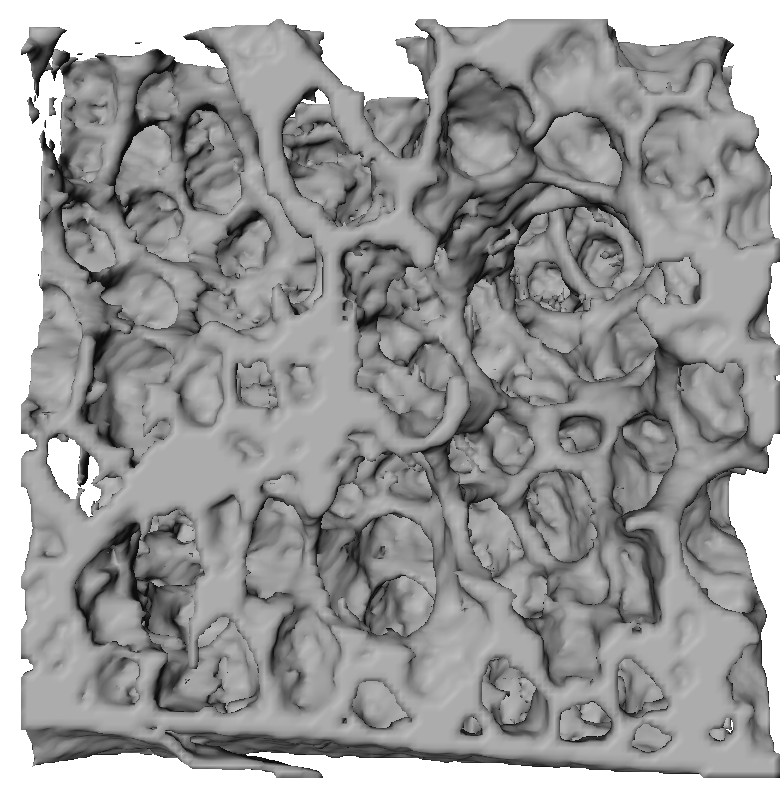
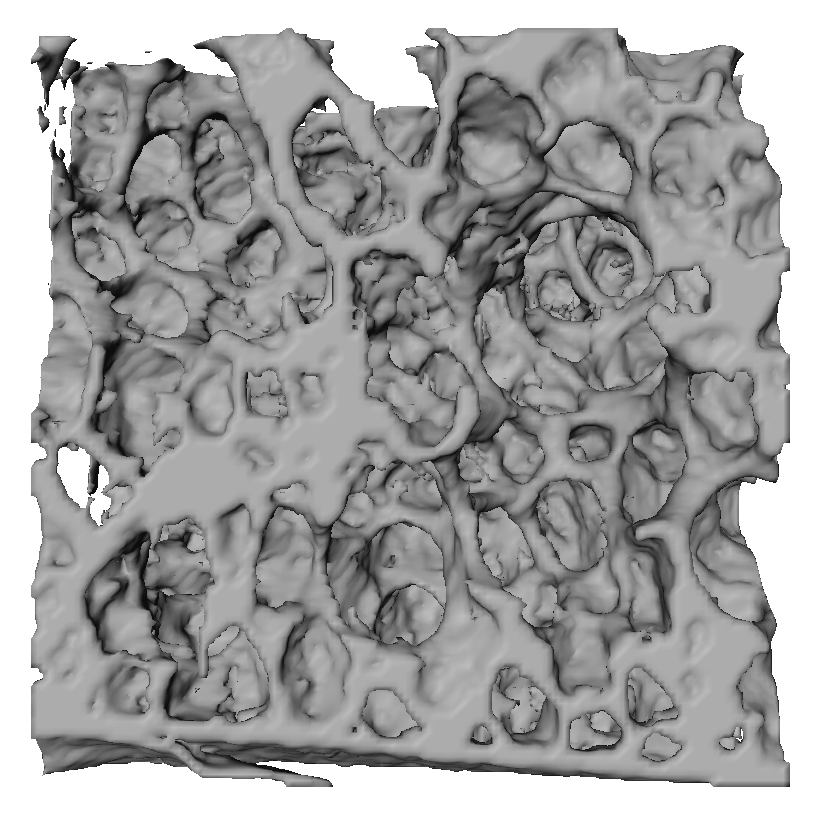
- changed images in figure 7 (cropped to correct size, scalebars updated) - shifted description of panel (b) in figure 4 - quality-plot is now scaled from 16-116% (corresponding to table) instead of 20-100% as per MATLAB - figure 3 has correct markers for ring-scans (r_{1} instead of r1) - worked on
git-svn-id: http://code.ana.unibe.ch/svn/WideFieldScanPaper@179 1e09dd5d-36e2-4d60-b258-626281e6a704

diff --git a/wfs-materials-and-methods.tex b/wfs-materials-and-methods.tex
@@ -59,7 +59,7 @@ A detailed description of the workflow at TOMCAT and the steps necessary to comp
 \fi%
 .
 
-\subsubsection{Covering a wide field of view perpendicular to the rotation axis}%
+\subsubsection{Covering a wide lateral field of view}%
 For parallel beam geometry, tomographic images are obtained at equidistant angles over a sample rotation of \SI{180}{\degree} as shown in figure~\ref{fig:scanning-possibilities}(a). After reconstruction the width of the image corresponds to the field of view of the camera.
 
 Samples which are twice as large as the field of view can be imaged using scanning protocols based on a \SI{360}{\degree} off-centre sample rotation as shown in figure~\ref{fig:scanning-possibilities}(b). Images recorded between \SI{180}{\degree} and \SI{360}{\degree} have to be flipped after acquisition and the projection images obtained at position $I_{x}$ and $I_{x+\SI{180}{\degree}}$ are stitched together to projection images covering two times the field of view of the camera.
@@ -82,18 +82,16 @@ Samples which are twice as large as the field of view can be imaged using scanni
 	\end{figure}
 \fi
 
-If we would like to achieve tomographic scans covering a size wider than two field of views, we have to combine three or more \SI{180}{\degree} scans taken at slightly overlapping positions as shown figure~\ref{fig:scanning-possibilities}(c).
-
-The projection images of each subscan have to overlap by 20--100 pixels to allow an optimal stitching of the multiple projections of each rotational angle into one projection. Using the mean squared difference between adjacent subscan images~\cite{Hintermueller2009}, such a cutline has been calculated for all the adjacent subscans of every scanned protocol and used to merge the single projections into projections covering the full field of view.
+If we would like to achieve tomographic scans covering a size wider than two field of views, we have to combine three or more \SI{180}{\degree} scans taken at slightly overlapping positions as shown figure~\ref{fig:scanning-possibilities}(c). The projection images of each subscan overlap each other slightly to allow an optimal stitching of the multiple projections of each rotational angle into one projection. Using the mean squared difference between adjacent subscan images~\cite{Hintermueller2009}, such a cutline has been calculated for the adjacent subscans and used to merge the single projections into projections covering the full field of view.
 
 \subsection{Generation of multiple scanning protocols}%
-The discussed scanning protocol for covering a wide field of view with three subscans is based on the assumption that a sufficient resolution and contrast can be achieved in the tomographic data sets when the sampling theorem is fulfilled for each of the three subscans individually. This results in a set of scans with $P_{i}$ projection images. A simple example with $P_{1}=4$ and $P_{2}=P_{3}=8$ is shown in figure~\ref{fig:projections}(a).
+The discussed scanning protocol for covering a wide field of view with three subscans is based on the assumption that a sufficient resolution and contrast can be achieved in the tomographic data set if the sampling theorem is individually fulfilled for each of the subscans. This results in a set of $i$ subscans with $P_{i}$ projection images. A simple example with $P_{1}=4$ and $P_{2}=P_{3}=8$ is shown in figure~\ref{fig:projections}(a).
 
 To be able to reconstruct the sample, we need to stitch the individual sets of projections to projections spanning the desired field of view. Since each scan has a different number of projections $P_{i}$, a stitching algorithm has to interpolate projections from adjacent projections (as shown in figure~\ref{fig:projections}(b)). Alternatively, the same number of projections has to be acquired for all subscans, leading to oversampling for the central scanning position.
 
 \ifiucr
 	\begin{figure}%
-		\caption{Setup with three \SI{180}{\degree} scans; one central (green) and two lateral (red and blue, respectively). In this drawing, we chose four projections for the central and eight projections for each of the lateral scans. The colors of the three positions correspond to the colors shown in figure~\ref{fig:scanning-possibilities}(c). Panel a): scanned projections, panel b): scanned projections and additional interpolated projections (dashed) needed to correctly merge all projections.}%
+		\caption{Setup with three \SI{180}{\degree} scans; one central (green) and two lateral (red and blue, respectively). In this drawing, we chose four projections for the central and eight projections for each of the lateral scans. The colors of the three positions correspond to the colors shown in figure~\ref{fig:scanning-possibilities}(c). Panel a): scanned projections, panel b): scanned projections and additional interpolated projections (dashed) needed to merge all projections.}%
 		\input{tikz-images/ProjectionSetup}%
 		\input{tikz-images/ProjectionSetupInterpolate}%
 		\label{fig:projections}%
@@ -101,28 +99,22 @@ To be able to reconstruct the sample, we need to stitch the individual sets of p
 \else
 	\begin{figure*}[htp]
 		\centering
-		\subfloat[]{%
-			\input{tikz-images/ProjectionSetup}%
-			\label{subfig:ProjectionSetup}%
-			}%
-		\subfloat[]{%
-			\input{tikz-images/ProjectionSetupInterpolate}%
-			\label{subfig:ProjectionSetupInterpolate}%
-			}%
-	%	\caption[Setup with one central and two lateral scans]
-		\caption{Setup with one central (green) and two lateral scans (red and blue, respectively). For demonstration purposes, the central scan has four projections and the lateral scans have eight projections each (all acquired over \SI{180}{\degree}). The colors of the three positions correspond to the colors shown in figure~\ref{subfig:scanning-possibilities}. \subref{subfig:ProjectionSetup}: scanned projections, \subref{subfig:ProjectionSetupInterpolate}: scanned projections and additional interpolated projections (dashed) needed to correctly merge all projections.}
+		\input{tikz-images/ProjectionSetup}%
+		\input{tikz-images/ProjectionSetupInterpolate}%
+		\caption{Setup with three \SI{180}{\degree} scans; one central (green) and two lateral (red and blue, respectively). In this drawing, we chose four projections for the central and eight projections for each of the lateral scans. The colors of the three positions correspond to the colors shown in figure~\ref{fig:scanning-possibilities}(c). Panel a): scanned projections, panel b): scanned projections and additional interpolated projections (dashed) needed to merge all projections.}%
 		\label{fig:projections}
 	\end{figure*}
 \fi
 
-\subsubsection{Reduction of the acquisition time}\label{subsubsec:reduction-of-acquisition-time}%
+\subsubsection{Reduction of acquisition time}\label{subsubsec:reduction-of-acquisition-time}%
 Since the total acquisition time per sample linearly scales with the total amount of projections of the three subscans, we tend to avoid oversampling to reduce the total amount of beam time used for one sample. Our goal was to find a good compromise between scanning and processing time and image quality. In order to reduce the time required for scanning one sample, acquisition protocols with varying amount of projections for each of the three subscans have been designed.
 
-To simplify the interpolation and merging of the projections from each subscan, we selected protocols where the amount of projections from the inner ($P_{inner}$) to the outer subscans ($P_{outer}$) is always a multiple of two: $\frac{P_{outer}}{P_{inner}} \bmod 2 = 0$. In the simple case shown in figure~\ref{fig:projections}, we would acquire 4 projections for the central and 8 projections for each of the lateral scans, thus avoiding oversampling the central part of the sample. To be able to merge the projection images, we interpolate 4 projections (dashed) in between the acquired projections (green) prior to stitching. If the amount of projections would not be a multiple of two, stitching the projections of the inner scan with the projections from the outer ones would introduce additional processing steps to interpolate the required intermediate projections.
+To simplify the interpolation and merging of the projections from each subscan, we selected protocols where the fraction of the amount of projections of the inner ($P_{inner}$) to the outer subscans ($P_{outer}$) is always a multiple of two%: $\frac{P_{outer}}{P_{inner}} \bmod 2 = 0$
+. In the simple case shown in figure~\ref{fig:projections}, we would acquire 4 projections for the central and 8 projections for each of the lateral scans, thus avoiding oversampling the central part of the sample. To be able to merge the projection images, we need to interpolate 4 projections (dashed) prior to stitching. If the amount of projections acquired for the ring scans would not be a multiple of two of the amount of projections of the central scan, stitching of the projections would introduce additional processing steps to interpolate the required intermediate projections.
 
-To be able to further reduce the total scanning time, we developed different scanning protocols, which all relate to a gold standard protocol, which per definition would cover the desired field of view while fulfilling the sampling theorem in all parts of the field of view, as shown in figure~\ref{fig:SubScan-Setup}(a). For this example we would like to achieve a field of view of 3072 pixels. The dark gray circle shown in aforementioned figure is the field of view that can be fully covered, the rest of the slice (in light grey) would be either missing or show artifacts arising from partial volume effects, depending on the chosen reconstruction algorithm. Since the available detector has a size of 1024$\times$1024 pixels, we can cover the same field of view with nine independent scans. This would require nine independent reconstructions and stitching of those nine tomographic datasets into one dataset covering the full field of view. But we can also cover the chosen field of view using a detector of the size of 3072$\times$1024 pixels in one scan. Using scanning protocol from which we can obtain merged projections, we can cover the desired field of view using a much smaller detector. Figure~\ref{fig:SubScan-Setup}(b) shows how such a field of view can be covered with a wide-field scan composed of one central and two half ring-scans.
+To be able to further reduce the total scanning time, we developed different scanning protocols related to a gold standard protocol, which per definition would cover the desired field of view while fulfilling the sampling theorem in all parts of the field of view, as shown in figure~\ref{fig:SubScan-Setup}(a). For this example we would like to achieve a field of view of 3072 pixels. The dark gray circle shown in aforementioned figure is the field of view that can be fully covered, the rest of the slice (in light grey) would be either missing or show artifacts, depending on the chosen reconstruction algorithm. With a detector of the size of 1024$\times$1024 pixels, we could cover this field of view with nine independent scans. This would require nine independent reconstructions and stitching of those nine tomographic datasets into one dataset covering the full field of view. But we could also cover the chosen field of view using a detector of the size of 3072$\times$1024 pixels in one scan. Using a scanning protocol with three subscans from which we obtain merged projections, we can cover the desired field of view using a much smaller detector. Figure~\ref{fig:SubScan-Setup}(b) shows how the desired field of view of 3072 pixels can be covered with a wide-field scan composed of one central and two half ring-scans. A further increase in the field of view can be obtained by simple iteration. Figures~\ref{fig:SubScan-Setup}(c)--(f) show such a setup for a five- or seven-fold increase.
 
-To fully satisfy the sampling theorem for a scan with the detector width $D$ we need to acquire an amount of projections $P=D\frac{\pi}{2}$, which leads to the acquisition of totally 14476 projections for the setup shown in figure~\ref{fig:SubScan-Setup}(b) ($P=3(3072\frac{\pi}{2})$ projections if the single projections from each subscan are merged into one projection covering the field of view). A further increase in the field of view can be obtained by simple iteration. Figures~\ref{fig:SubScan-Setup}(c)--(f) show such a setup for a five- or seven-fold increase.
+%To fully satisfy the sampling theorem for a scan with the detector width $D$ we need to acquire an amount of projections $P=D\frac{\pi}{2}$, which leads to the acquisition of totally 14476 projections for the setup shown in figure~\ref{fig:SubScan-Setup}(b) ($P=3(3072\frac{\pi}{2})$ projections if the single projections from each subscan are merged into one projection covering the field of view). 
 
 \ifiucr
 	%\onecolumn
@@ -130,11 +122,11 @@ To fully satisfy the sampling theorem for a scan with the detector width $D$ we 
 		\centering%
 		\caption{Setup for different field of views. %
 		(a) Desired field of view of 3072 pixel diameter. %
-		(b) Gold standard scanning protocol for covering the desired field of view of panel (a) with merged projections from one central and two half ring scans. %
+		(b) Gold standard scanning protocol for covering the desired field of view of panel (a) with merged projections from one central and two half ring scans ($r_{1}$ and $r_{2}$). %
 		(c) Desired field of view of 5120 pixel diameter. %
-		(d) Gold standard scanning protocol for covering the desired field of view of panel (c) with merged projections from one central and four half ring scans. %
+		(d) Gold standard scanning protocol for covering the desired field of view of panel (c) with merged projections from one central and four half ring scans ($r_{1}$--$r_{4}$). %
 		(e) Desired field of view of 7168 pixel diameter. %
-		(f) Gold standard scanning protocol for covering the desired field of view of panel (e) with merged projections from one central and six half ring scans. %
+		(f) Gold standard scanning protocol for covering the desired field of view of panel (e) with merged projections from one central and six half ring scans ($r_{1}$--$r_{6}$).%
 		}%
 		\input{tikz-images/SubScanSetup/SetupFor-3-5-7-SubScans}
 		\label{fig:SubScan-Setup}%
@@ -144,7 +136,14 @@ To fully satisfy the sampling theorem for a scan with the detector width $D$ we 
 	\begin{figure*}[htp]
 		\centering%
 		\input{tikz-images/SubScanSetup/SetupFor-3-5-7-SubScans}
-		\caption{Setup; desired field of view and two variants of covering the desired field of view with 9 independent small scans or 3 subscans.}%
+		\caption{Setup for different field of views. %
+		(a) Desired field of view of 3072 pixel diameter. %
+		(b) Gold standard scanning protocol for covering the desired field of view of panel (a) with merged projections from one central and two half ring scans ($r_{1}$ and $r_{2}$). %
+		(c) Desired field of view of 5120 pixel diameter. %
+		(d) Gold standard scanning protocol for covering the desired field of view of panel (c) with merged projections from one central and four half ring scans ($r_{1}$--$r_{4}$). %
+		(e) Desired field of view of 7168 pixel diameter. %
+		(f) Gold standard scanning protocol for covering the desired field of view of panel (e) with merged projections from one central and six half ring scans ($r_{1}$--$r_{6}$).%
+		}%
 		\label{fig:SubScan-Setup}%
 	\end{figure*}
 \fi
@@ -155,7 +154,7 @@ A MATLAB-script (MATLAB\textsuperscript{\textregistered} 7.6.0.321 (R2008a), The
 
 Using a Shepp-Logan phantom~\cite{Shepp1974}, a reconstruction is calculated for protocol from this set. We calculate the expected reconstruction quality based on the difference between the simulated reconstructions and the gold standard (the original phantom). This calculated reconstruction quality is then plotted against the acquisition time, which enables the user to chose a suitable protocol balancing image quality and acquisition time.
 
-After the user has chosen a suitable protocol out of the presented set, a file containing the details of the scan is written to disk. This file contains the parameters like amount of needed subscans, the positions of the sample, number of projections as well as start and stop angles of the rotation for each subscan. A custom Python-script parses the file containing the details and interacts with the EPICS-System (Experimental Physics and Industrial Control System, Argonne National Laboratory, Argonne, USA, \url{http://www.aps.anl.gov/epics/}), which itself is used to control the hardware of the TOMCAT beamline, allowing for an unattended batch scan of all the desired subscans.
+After the user has chosen a suitable protocol out of the presented set, a file containing the details of the scan is written to disk. This file contains the parameters needed to scan this protocol like amount of needed subscans, the positions of the sample, number of projections as well as start and stop angles of the rotation for each subscan. A custom Python-script (\url{http://python.org/}) parses the file containing the details and interacts with the EPICS-System (Experimental Physics and Industrial Control System, Argonne National Laboratory, Argonne, USA, \url{http://www.aps.anl.gov/epics/}), which itself is used to control the hardware of the TOMCAT beamline, allowing for an unattended batch scan of all the desired subscans.
 
 After the multiple subscans have been recorded, the stitching of the projections recorded per subscans into projections covering the desired field of view is performed with minimal user interaction using a second MATLAB-script. Further processing of the merged projections like sinogram generation and reconstruction into the tomographic dataset is integrated into the TOMCAT data-processing pipeline, as specified by%
 \ifhtml%
@@ -166,8 +165,8 @@ After the multiple subscans have been recorded, the stitching of the projections
 .
 
 \subsection{Batch Acquisition of the Protocols}%
-Multiple scanning protocols have been defined. The total amount of recorded projections for the different protocols has been linearly scaled down compared to a gold standard scan (for details, see section~\ref{subsec:quality-guided-protocols}). The three subscans (one central and two ring-scans) of each protocol have been scanned without any user intervention, except input of the sample name at the start of the batch-scan. All parameters such as sample-position in relation to the beam, rotation angles and amount of projections to obtain for each of the subscans have been set in a preference file generated using the aforementioned MATLAB-script. All 19 protocols (B--T) have been scanned as a batch scan, without manual intervention, permitting a direct comparison of the reconstructed slices.
+Multiple scanning protocols have been defined. The total amount of recorded projections for the different protocols has been linearly scaled down compared to a gold standard scan (for details, see section~\ref{subsec:quality-guided-protocols}). All parameters of each protocol such as sample-position in relation to the beam, rotation angles and amount of projections to obtain for each of the individual subscans have been set in a preference file generated using the aforementioned MATLAB-script. All 19 protocols (B--T) have been scanned as a batch scan without manual intervention, permitting a direct comparison of the reconstructed slices.
 
-After acquisition of the three subscans per protocol, custom MATLAB functions read the parameters of the single subscans (e.g.\ sample name, amount of subscans, amount of dark and flat images) as well as the desired output-name and -suffix and performs all necessary calculations like loading of the correct projections from each subscan, normalizing, interpolation, cutline detection and correct stitching of the images into wide field projections.
+After acquisition of the three subscans per protocol, custom MATLAB functions read the parameters of the single subscans (e.g.\ sample name, amount of subscans, amount of dark and flat images) as well as the desired output-name and -suffix and perform all necessary calculations like loading of the correct projections from each subscan, normalizing, interpolation, cutline detection, correct stitching of the images into wide field projections and writing these projections to disk.
 
-The corrected and merged projections have been rearranged into sinograms, where the $n$\textsuperscript{th} is composed of the $n$\textsuperscript{th} line of every corrected projection. The $n$\textsuperscript{th} slice of the tomographic scan was reconstructed from the $n$\textsuperscript{th} sinogram using an FFT-based regridding algorithm~\cite{Dowd1999}. The full tomographic dataset has been reconstructed on a 20-node server farm (five \SI{64}{\bit} Opteron machines with 4 cores and \SI{8}{\giga\byte} RAM each). The reconstructions result in an image stack covering a large sample volume of 2793$\times$2793$\times$1024 pixels, an approximately nine-fold increase from the standard volume of 1024$\times$1024$\times$1024 pixels for one conventional scan.
+The merged projections have been rearranged into sinograms, where the $n$\textsuperscript{th} is composed of the $n$\textsuperscript{th} line of every corrected projection. The $n$\textsuperscript{th} slice of the tomographic scan was reconstructed from the $n$\textsuperscript{th} sinogram using an FFT-based regridding algorithm~\cite{Dowd1999}. The 19 tomographic dataset have been reconstructed on a 20-node server farm (five \SI{64}{\bit} Opteron machines with 4 cores and \SI{8}{\giga\byte} RAM each). The reconstructions result in an image stack covering a large sample volume of 2793$\times$2793$\times$1024 pixels, an approximately nine-fold increase from the standard volume of 1024$\times$1024$\times$1024 pixels for one conventional scan.

diff --git a/wfs-discussion.tex b/wfs-discussion.tex
@@ -18,16 +18,16 @@
 %
 \section{Discussion}\label{sec:Discussion}%
 
-We present a method to laterally increase the field of view of tomographic imaging systems operated in parallel beam geometry and would like to call this method wide field synchrotron radiation based x-ray tomographic microscopy (WF-SRXTM). We selectively defined different scanning protocols for the optimization of the total imaging time towards the expected imaging quality. This enables the very fast acquisition of lower quality tomographic datasets or acquisition of very high quality datasets in a longer time.
+We present a method to laterally increase the field of view of tomographic imaging systems operated in parallel beam geometry and would like to call this method wide field synchrotron radiation based x-ray tomographic microscopy (WF-SRXTM). We selectively defined different scanning protocols for the optimization of the total imaging time towards the expected imaging quality. This enables a very fast acquisition of lower quality tomographic datasets or acquisition of very high quality datasets in a longer time.
 
-The field of view was increased three-fold by merging projections from three subscans and reconstructing the merged projections using the standard workflow present at the beamline. As a consequence of increasing the field of view, an increased amount of projections have to be acquired to satisfy the sampling theorem. This increased amount of projections lengthens the acquisition time. To overcome this limitation, we defined multiple scanning protocols with a reduced amount of total projections. All these protocols have been evaluated for quality of the resulting reconstructions compared to a gold standard. We have shown that the resulting quality can be simulated prior to scanning, thus giving the end-user a possibility to chose a suited scanning protocol, based on needed scanning time and on an estimation of the quality of the resulting reconstructions.
+The field of view was increased three-fold by merging projections from three subscans and reconstructing the merged projections using the standard workflow present at the TOMCAT beamline. As a consequence of increasing the field of view, an increased amount of projections has to be acquired to satisfy the sampling theorem. This increased amount of projections lengthens the acquisition time. To overcome this limitation, we defined multiple scanning protocols with a reduced amount of total projections and thus reduced acquisition time. All these protocols have been evaluated for quality of the resulting reconstructions compared to a gold standard. We have shown that the resulting quality can be simulated prior to scanning, thus giving the end-user a possibility to chose a suited scanning protocol, based on the demands for scanning time optimization and quality of the resulting tomographic dataset.
 
 For protocols with an equal amount of total projections, but differing amount of projections for the central and the ring scans we observed a difference in reconstruction quality (protocols C and D as well as protocols M and N are such protocols and are marked in figure~\ref{fig:NormalizedErrorPlot}). This difference arises through the fact that the amount of projections acquired for the central and the subscan do add up to the same total amount of projections, but contribute differently to the quality of the reconstruction. Two factors are responsible for this result: First, we perform an oversampling in the central scan for both protocols D and N when compared to protocols C and M, which increases the quality of the reconstructions. Second, since we acquired different amount of projections for the subscans, we need to interpolate projections from the central scan to generate merged projections, which accounts for an additional error for protocols M and C\todo{Additionally a ``missing wedge''-problem for outer scans?}.
 
 It is thus desirable to favor a protocol with equal amounts of projections for each subscans over of a protocol with an equal total amount of projections, but a decreased amount of projections for the central scan. Since a reduced amount of projections for the central scan decreases the reconstruction quality for the central parts of the sample, this explanation seems natural. In addition, the interpolation of missing projections could introduce artifacts in the reconstruction which are suppressed when simply stitching projections without interpolation.
 
-We have shown that the field of view of parallel beam tomographic end-stations can be increased up to five-fold and have three-dimensionally reconstructed multiple tomograms obtained with WF-SRXTM. The calculation shown for three subscans (one central and two half ring scans) are expandable to 5 subscans, as has been shown at the end of section~\ref{sec:Results}. The protocols are theoretically expandable for more than the shown 5 subscans, albeit the reconstruction of wide field scans with 7 or more subscans implies tremendous requirements on the data processing infrastructure. The datasets shown in figure~\ref{fig:BvsT} are binned scans resulting in datasets of 1024 slices, each with a size of 2792$\times$2792 pixels at a \SI{8}{\bit} depth. This amounts to a total size of the dataset of approximately \SI{7.5}{\giga\byte}. If we assume an un-binned scan with 7 overlapping subscans, the size of the stitched projections will be around 14000$\times$14000 pixels. The full dataset will consist of 2048 stitched slices with that size, with amounts to a total size of approximately \SI{383}{\giga\byte} for the full dataset. All mentioned datasets have been reconstructed at \SI{8}{\bit}, TOMCAT also offers the possibility to record the tomographic datasets with \SI{16}{\bit} depth, so the full dataset of a wide field scan with a seven-fold increase in field of view with increased bit depth would result in one dataset with a size of \SI{0.75}{\tera\byte}.
+We have shown that the field of view of parallel beam tomographic end-stations can be increased up to five-fold and have three-dimensionally reconstructed multiple tomograms obtained with WF-SRXTM. The protocols are theoretically expandable for more than the shown 5 subscans, albeit the reconstruction of wide field scans with 7 or more subscans implies tremendous requirements on the data processing infrastructure. The datasets shown in figure~\ref{fig:BvsT} are binned scans resulting in datasets of 1024 slices, each with a size of 2792$\times$2792 pixels at a \SI{8}{\bit} depth. This amounts to a total size of the dataset of approximately \SI{7.5}{\giga\byte}. If we assume an un-binned scan with 7 overlapping subscans, the size of the stitched projections will be around 14000$\times$14000 pixels. The full dataset will consist of 2048 stitched slices with that size, with amounts to a total size of approximately \SI{383}{\giga\byte} for the full dataset. All mentioned datasets have been reconstructed at \SI{8}{\bit}, TOMCAT also offers the possibility to obtain tomographic datasets with \SI{16}{\bit} depth. A wide field scan with a seven-fold increase in field of view with increased bit depth would result in one dataset with a size of \SI{0.75}{\tera\byte}.
 
-Nonetheless it is interesting to scan samples with a five-fold increase in field of view or bigger, since it would enable the end-user to selectively reconstruct regions of interest from large samples with ultra-high resolution. Up to now a two-step process was required to scan such regions from samples larger than the field of view at the high resolution. In a first step, a registered overview scan of the sample at lower resolution and thus large field of view was acquired, then a region of interest to be scanned with high resolution was marked in the low-resolution dataset using a custom-made ROI picker software~\cite{Heinzer2008} and a high resolution local tomography scan with small field of view was performed at the marked region.
+Nonetheless it is interesting to scan samples with a five-fold increase in field of view or bigger, since it would enable the end-user to selectively reconstruct regions of interest from large samples with ultra-high resolution. Up to now a two-step process was required to scan such regions from samples larger than the field of view at high resolutions. In a first step, a registered overview scan of the sample at lower resolution and thus large field of view was acquired, then a region of interest to be scanned with high resolution was marked in the low-resolution dataset using a custom-made ROI picker software~\cite{Heinzer2008} and a high resolution local tomography scan with small field of view was performed at the marked region.
 
-One disadvantage of WF-SRXTM compared to the ROI picker method is the extremely big datasets which resulting from the reconstruction of the full resolution projections into reconstructions spanning a large field of view. With the ROI picker method only selective regions of interest selected from a low-resolution tomogram are scanned and reconstructed in high resolution. Since we record all data in a one-step process, it would be possible to integrate partial reconstructions of the full size datasets into the data processing pipeline of TOMCAT. After definition of a ROI to be reconstructed out of the high-resolution wide field dataset, partial sinograms and partial reconstructions could be calculated.
+One disadvantage of WF-SRXTM compared to the ROI picker method is the extremely big datasets which resulting from the reconstruction of the full resolution projections into reconstructions spanning a large field of view. With the ROI picker method only selective regions of interest selected from a low-resolution tomogram are scanned and reconstructed in high resolution, thus reducing the amount of data recorded. Since we record all data in a one-step process, it would be possible to integrate partial reconstructions of the full size datasets into the data processing pipeline of TOMCAT. After definition of a ROI to be reconstructed out of the high-resolution wide field dataset, partial sinograms and partial reconstructions could be calculated.

diff --git a/tikz-images/plots/2008c-MeanNormalizedErrorPlot.tex b/tikz-images/plots/2008c-MeanNormalizedErrorPlot.tex
@@ -14,93 +14,97 @@
 %%%%%%%%	ymin=0,ymax=110,
 %%%%%%%%	axis y line = left,
 	xlabel={Scanning Time [\%\ of Gold Standard]},%
-	ylabel={Expected Quality [\%], Quality$-E_{norm}$}%
+	ylabel={Expected Quality [\%], Quality$-E_{i_{norm}}$}%
 	]
 
 % Protocols
-\addplot [ color = red, only marks, mark = *]
+\addplot [ fill=red, only marks, mark = *]
 	coordinates{
-		(13.7508,20)
-		(16.5009,21.2284)
-		(24.7703,46.0522)
-		(27.5016,54.5201)
-		(33.0019,60.7072)
-		(34.3801,61.8107)
-		(41.2524,67.4167)
-		(41.2712,68.7811)
-		(48.1435,71.8724)
-		(49.5028,75.28)
-		(55.0031,76.1345)
-		(57.7722,80.1592)
-		(61.8943,78.0612)
-		(66.0038,83.9645)
-		(68.7539,80.4284)
-		(74.2731,86.6889)
-		(82.5047,84.9458)
-		(82.5047,89.1421)
-		(99.0057,100)
+		(16.14,20)
+		(19.37,21.2284)
+		(29.08,46.0522)
+		(32.29,54.5201)
+		(38.75,60.7072)
+		(40.37,61.8107)
+		(48.46,67.4167)
+		(48.43,68.7811)
+		(58.12,71.8724)
+		(56.52,75.28)
+		(67.83,76.1345)
+		(64.58,80.1592)
+		(77.49,78.0612)
+		(72.67,83.9645)
+		(87.20,80.4284)
+		(80.72,86.6889)
+		(96.87,84.9458)
+		(96.84,89.1421)
+		(116.24,100)
 };
 
 % Line plot
 \addplot [smooth, solid, semitransparent]
 	coordinates{
-		(13.7508,16.8548)
-		(16.5009,25.9575)
-		(24.7703,46.6567)
-		(27.5016,51.7347)
-		(33.0019,59.9714)
-		(34.3801,61.6854) 
-		(41.2524,68.6146)
-		(41.2712,68.6305) 
-		(48.1435,73.5452)
-		(49.5028,74.3455)
-		(55.0031,77.1605)
-		(57.7722,78.3754)
-		(61.8943,80.0091)
-		(66.0038,81.5005)
-		(68.7539,82.4599)
-		(74.2731,84.3973)
-		(82.5047,87.719)
-%		(82.5047,87.719)
-		(99.0057,99.8565)
+		(16.14,16.8548)
+		(19.37,25.9575)
+		(29.08,46.6567)
+		(32.29,51.7347)
+		(38.75,59.9714)
+		(40.37,61.6854) 
+		(48.46,68.6146)
+		(48.43,68.6305) 
+		(56.52,73.5452)
+		(58.12,74.3455)
+		(64.58,77.1605)
+		(67.83,78.3754)
+		(72.67,80.0091)
+		(77.49,81.5005)
+		(80.72,82.4599)
+		(87.20,84.3973)
+		(96.87,87.719)
+%		(96.87,87.719)
+		(116.24,99.8565)
 };
 
 \addplot [ color=blue, only marks, mark=diamond ]
 plot [ error bars/.cd, y dir=both,y explicit ]
     coordinates{
-	(13.75,20.0000) +- (0,0)      % T
-	(16.50,38.1358) +- (0,3.1135) % S
-	(24.77,30.2919) +- (0,1.3958) % R
-	(27.50,42.2255) +- (0,2.5278) % Q
-	(33.00,49.2247) +- (0,7.6789) % P
-	(34.38,53.0181) +- (0,6.8507) % O 
-	(41.27,41.5079) +- (0,4.7824) % N  
-	(41.25,51.6990) +- (0,4.7110) % M
-	(49.50,49.9058) +- (0,9.1839) % L
-	(48.14,66.1100) +- (0,8.1635) % K
-	(57.77,50.4137) +- (0,5.5671) % J
-	(55.00,56.2138) +- (0,3.2329) % I
-	(66.00,60.0243) +- (0,8.0805) % H
-	(61.89,65.7727) +- (0,6.2214) % H
-	(74.27,55.0069) +- (0,4.1882) % F
-	(68.75,79.6708) +- (0,3.0107) % E
-	(82.50,70.4018) +- (0,3.0863) % D
-	(82.50,74.3991) +- (0,6.8125) % C
-	(99.01,99.8987) +- (0,1.3487) % B
+	(16.14,20.0000) +- (0,0)      % T
+	(19.37,38.1358) +- (0,3.1135) % S
+	(29.08,30.2919) +- (0,1.3958) % R
+	(32.29,42.2255) +- (0,2.5278) % Q
+	(38.75,49.2247) +- (0,7.6789) % P
+	(40.37,53.0181) +- (0,6.8507) % O 
+	(48.46,41.5079) +- (0,4.7824) % N  
+	(48.43,51.6990) +- (0,4.7110) % M
+	(58.12,49.9058) +- (0,9.1839) % L
+	(56.52,66.1100) +- (0,8.1635) % K
+	(67.83,50.4137) +- (0,5.5671) % J
+	(64.58,56.2138) +- (0,3.2329) % I
+	(77.49,60.0243) +- (0,8.0805) % H
+	(72.67,65.7727) +- (0,6.2214) % H
+	(87.20,55.0069) +- (0,4.1882) % F
+	(80.72,79.6708) +- (0,3.0107) % E
+	(96.87,70.4018) +- (0,3.0863) % D
+	(96.87,74.3991) +- (0,6.8125) % C
+	(116.24,99.8987) +- (0,1.3487) % B
 };
 	
 \pgfplotsset{every axis legend/.append style={at={(0.75,0.1)},anchor=base}}
 
-\legend{calc.\ Quality, Polynomial Fit, $E_{norm}$}
+\legend{calc.\ Quality, Polynomial Fit, $E_{i_{norm}}$}
 
-\draw [] (axis cs:82.50,74.3991) -- (axis cs:84.50,74.3991) node [right] {\scriptsize C};
-\draw [] (axis cs:82.50,70.4018) -- (axis cs:84.50,70.4018) node [right] {\scriptsize D};
-\draw [] (axis cs:41.25,51.6990) -- (axis cs:43.25,51.6990) node [right] {\scriptsize M};
-\draw [] (axis cs:41.27,41.5079) -- (axis cs:43.27,41.5079) node [right] {\scriptsize N};
+\draw [] (axis cs:97.87,74.3991) -- (axis cs:100.87,74.3991) node [anchor=text] {\tiny C};
+\draw [] (axis cs:97.87,70.4018) -- (axis cs:100.87,70.4018) node [anchor=text] {\tiny D};
+\draw [] (axis cs:49.43,51.6990) -- (axis cs:52.43,51.6990) node [anchor=text] {\tiny M};
+\draw [] (axis cs:49.46,41.5079) -- (axis cs:52.46,41.5079) node [anchor=text] {\tiny N};
 
 \end{axis}
 
 \end{tikzpicture}
+%%%%%%%%%%%%%%%%%%%%%%%%%%%%%%
+%\end{preview}
+%\end{document}
+
 %%%%%%%%%%%%%%%%%%%%%%%%%%%%%%
 % plot erstellt mit MATLAB-File p:\\MATLAB\WideFieldScan/Paper/wfs_Compare2008c_ErrorPlot.m
 % mit FromToTo = 1:5:1024
@@ -135,5 +139,3 @@ plot [ error bars/.cd, y dir=both,y explicit ]
 %
 %    8.0805    6.2214    4.1882    3.0107    3.0863    6.8125    1.3487
 %%%%%%%%%%%%%%%%%%%%%%%%%%%%%%
-%\end{preview}
-%\end{document}

diff --git a/tikz-images/SubScanSetup/SetupFor-3-5-7-SubScans.tex b/tikz-images/SubScanSetup/SetupFor-3-5-7-SubScans.tex
@@ -26,9 +26,9 @@
 			\draw (\size,\size) circle (\r);
 		\draw (0,\size) -- (\size-1,\size);
 		\draw (\size+1,\size) -- (2*\size,\size);
-		\node at (\size,1) {r1};
+		\node at (\size,1) {$r_{1}$};
 		\node at (\size,3) {central};
-		\node at (\size,5) {r2};
+		\node at (\size,5) {$r_{2}$};
 		\def\angle{155}
 		\draw [white,ultra thick,<->] (\size,\size) +(\angle:1) -- node [sloped,midway,above] {1024 px} +(\angle:3); 
 		\node [anchor=south west] at (0,0) {(b)};%
@@ -56,11 +56,11 @@
 			\draw (\size,\size) circle (\r);
 		\draw (0,\size) -- (\size-1,\size);
 		\draw (\size+1,\size) -- (2*\size,\size);
-		\node at (\size,1) {r3};
-		\node at (\size,3) {r1};
+		\node at (\size,1) {$r_{3}$};
+		\node at (\size,3) {$r_{1}$};
 		\node at (\size,5) {central};
-		\node at (\size,7) {r2};
-		\node at (\size,9) {r4};
+		\node at (\size,7) {$r_{2}$};
+		\node at (\size,9) {$r_{4}$};
 		\def\angle{155}
 		\draw [white,ultra thick,<->] (\size,\size) +(\angle:1) -- node [sloped,midway,above] {1024 px} +(\angle:3); 
 		\node [anchor=south west] at (0,0) {(d)};%
@@ -88,19 +88,19 @@
 			\draw (\size,\size) circle (\r);
 		\draw (0,\size) -- (\size-1,\size);
 		\draw (\size+1,\size) -- (2*\size,\size);
-		\node at (\size,1) {r5};
-		\node at (\size,3) {r3};
-		\node at (\size,5) {r1};
+		\node at (\size,1) {$r_{5}$};
+		\node at (\size,3) {$r_{3}$};
+		\node at (\size,5) {$r_{1}$};
 		\node at (\size,7) {central};
-		\node at (\size,9) {r2};
-		\node at (\size,11) {r4};
-		\node at (\size,13) {r6};
+		\node at (\size,9) {$r_{2}$};
+		\node at (\size,11) {$r_{4}$};
+		\node at (\size,13) {$r_{6}$};
 		\def\angle{155}
 		\draw [white,ultra thick,<->] (\size,\size) +(\angle:1) -- node [sloped,midway,above] {1024 px} +(\angle:3);
 		\node [anchor=south west] at (0,0) {(f)};%
 	\end{tikzpicture}%
 %%%%%%%%%%%%%%%%%%%%%%%%%%%%% 7 SUBSCANS %%%%%%%%%%%%%%%%%%%%%%%%%%%%%
-\\
+%\\
 %%%%%%%%%%%%%%%%%%%%%%%%%%%%%	
 %\caption{Projection Setup}
 %\end{figure}

diff --git a/img/merge/iucr-Slice.tex b/img/merge/iucr-Slice.tex
@@ -28,14 +28,14 @@
 					\draw [dashed, ultra thick, color=red] (2792/2,992/2) circle (512);
 					\def\angle{35}
 					\draw [white, thick, <->] (2792/2,992/2) +(\angle:0) --  node (bigto) {} +(\angle:512); 
-					\node [white] (bigfrom) at (256,256){$\frac{1024}{2}$px};
+					\node [white] (bigfrom) at (349,256){$\frac{1024}{2}$px};
 					\draw [white, ->, thick, densely dotted] (bigfrom) to [bend left=45] (bigto);
 				%%%% big circle
 				%%%% 141px circle
 				\draw [dashed, ultra thick, color=red] (2792/2,992/2) circle (512-141);
 				\def\angle{35+90}
 					\draw [white,thick,<->] (2792/2,992/2) +(\angle:0) -- node (smallto) {} +(\angle:512-141);
-					\node [white] (smallfrom) at (256,384) {$\frac{1024}{2}-141$px};
+					\node [white] (smallfrom) at (349,384) {$\frac{1024}{2}-141$px};
 					\draw [white, ->, thick, densely dotted] (smallfrom) to [bend left=45] (smallto);
 				%%%% 141px circle					
 %				%%%% 138px circle
